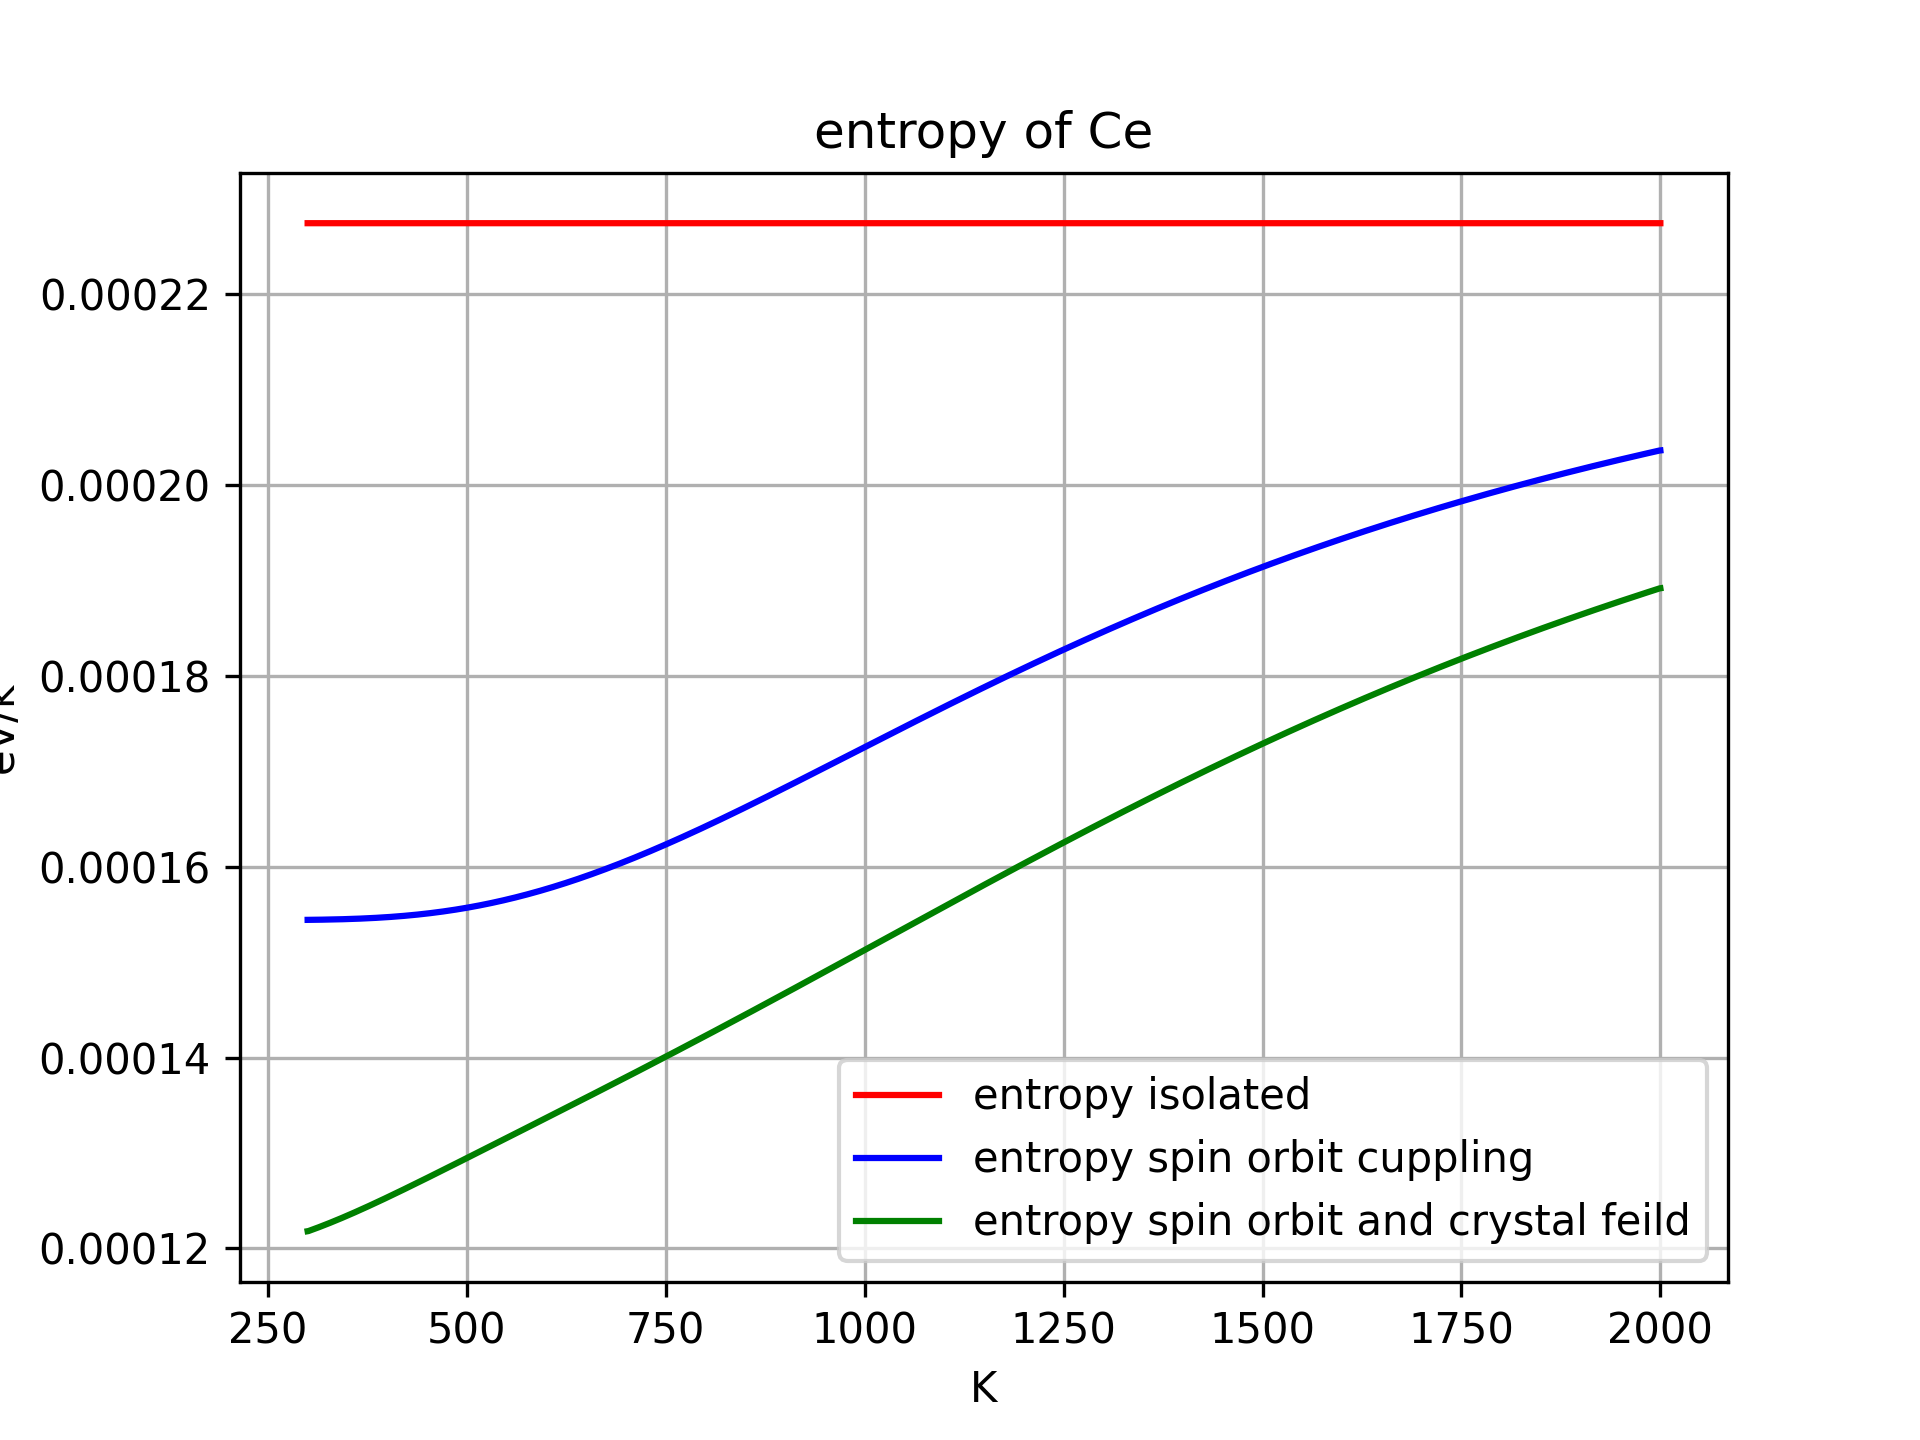
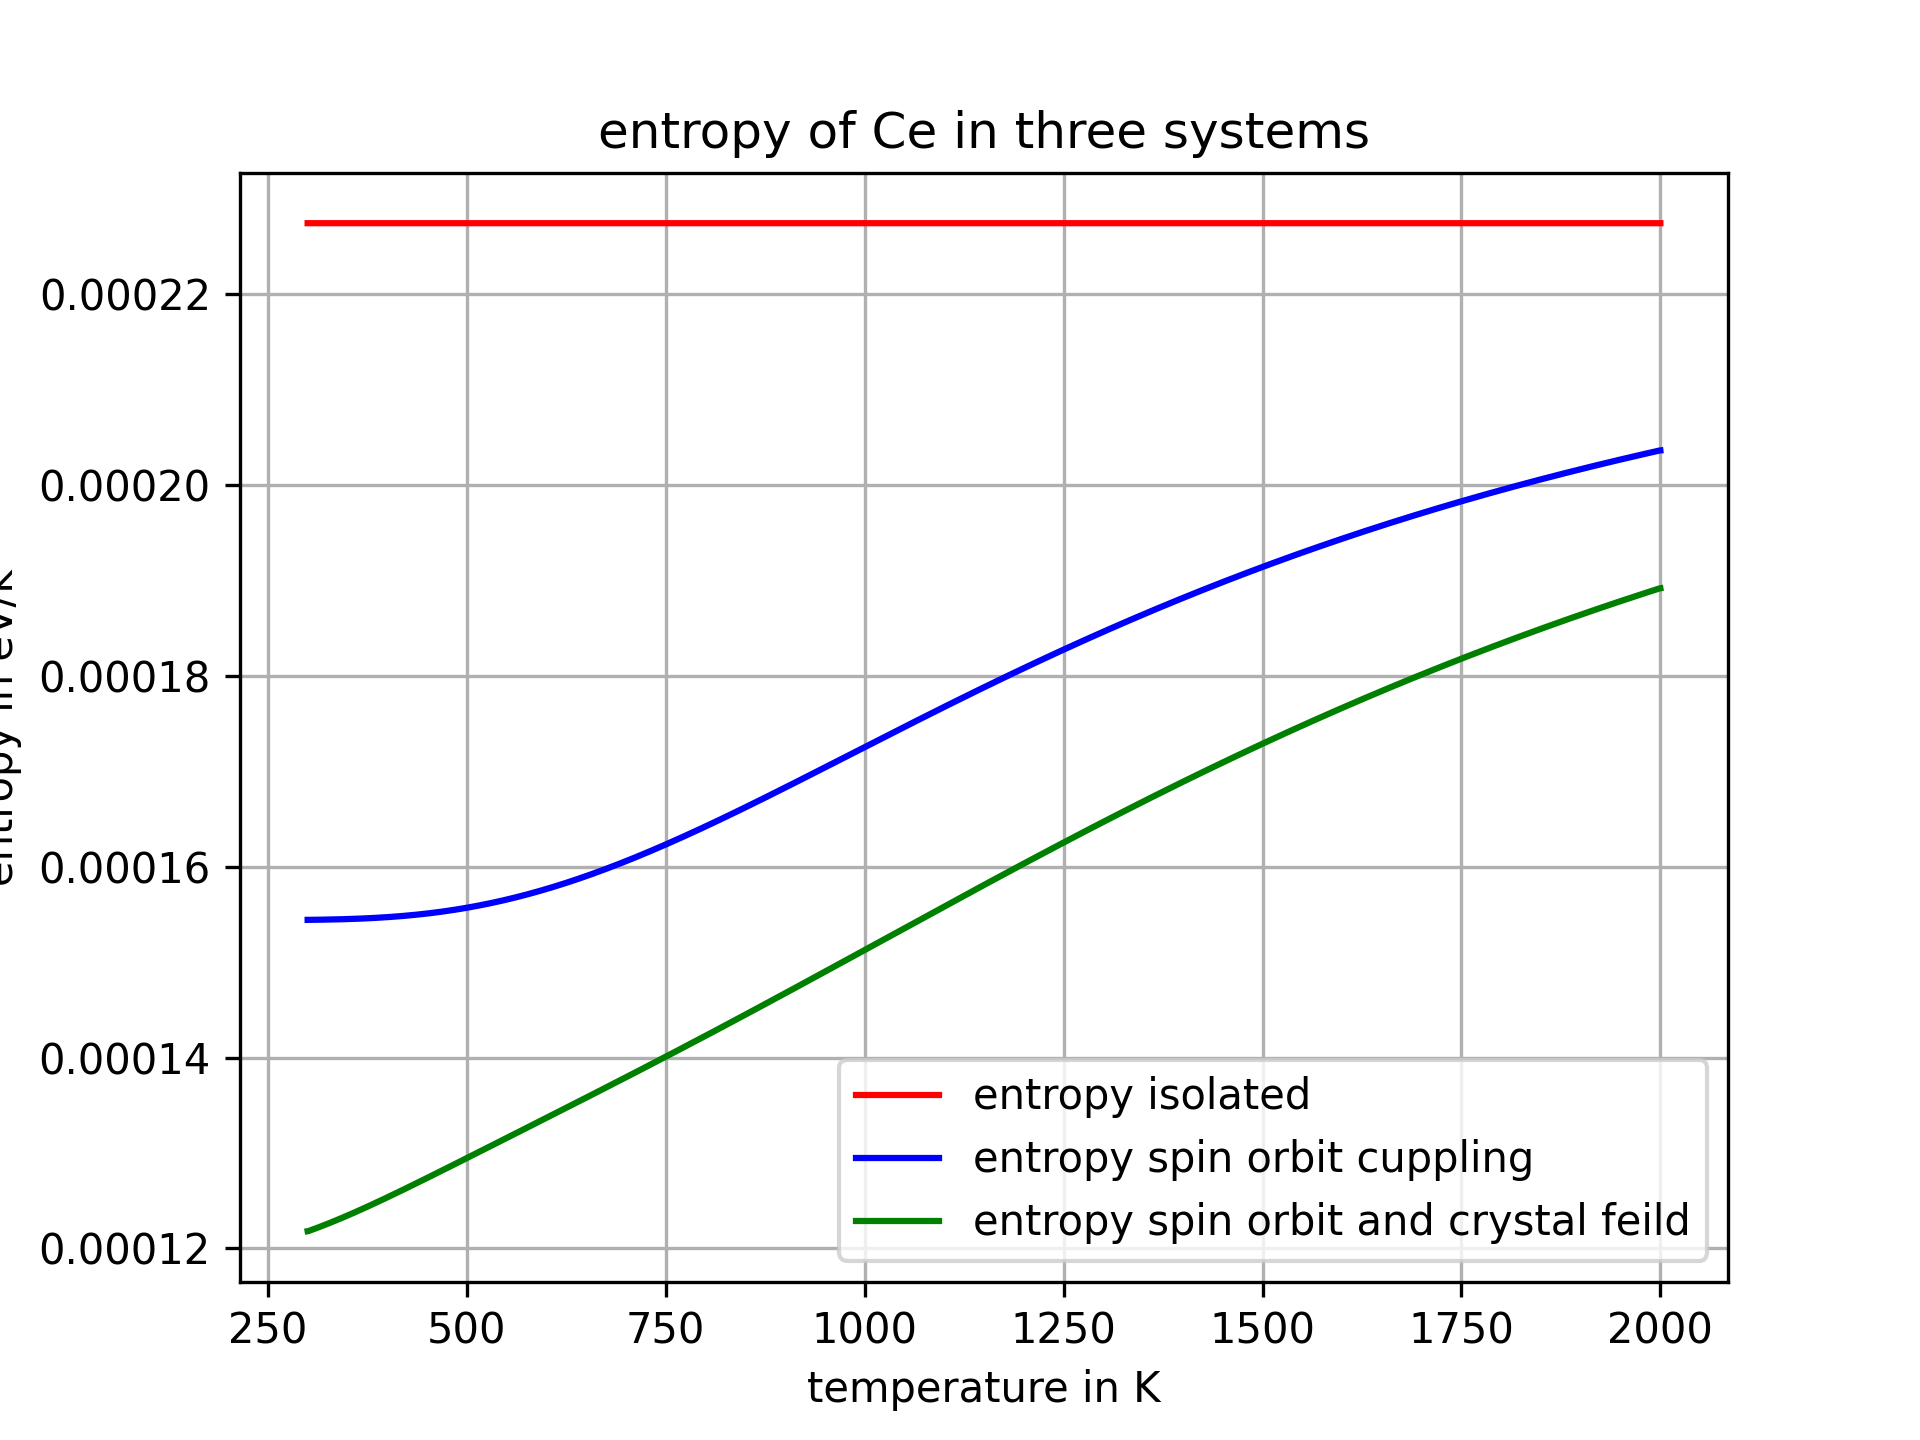
Add files via upload

Changed region(s): [[0.3125, 0.0625, 0.7188, 0.125], [0.4062, 0.9375, 0.5938, 0.9688], [0.0, 0.4688, 0.0312, 0.5312]]

diff --git a/homework_4_2/ce_thermo.py b/homework_4_2/ce_thermo.py
@@ -1,12 +1,12 @@
 import numpy as np
 import matplotlib.pyplot as plt
-import pandas as ps
+import pandas as pd
 from scipy.constants import k, eV
 
 # Constants
 k_B = k / eV  # Boltzmann constant in eV/K
 T = np.linspace(300, 2000, 1700)
-beta = 1/(k_B * T)
+Beta = 1/(k_B * T)
 
 #Ce3+ 
 #isolated gives
@@ -23,37 +23,49 @@ E_soc = np.array([0,.28]) #eV difference between Low and high
 g_cfs = np.array([4,2,2,4,2])
 E_cfs = np.array([0, .12, .35, .41, .42])
 
+# function to find and store values of Z
+def partition(g, E, T):
+    Z = []
+    for dt in T:
+        Beta = 1/(k_B*dt)
+        dz =  np.sum(g * np.exp(-Beta* E)) 
+        Z.append(dz)
+    return np.array(Z)
 
-# isolated system calulation
-def isolated_system(g, E, T, beta):
-    Z =  np.sum(g * np.exp(-np.outer(beta, E)), axis=1) 
-    U = -np.gradient(np.log(Z), beta) #interal energy
-    F = -k_B * T * np.log(Z) #free energy
-    S = -np.gradient(F,T) #entropy
-    return Z, U, F, S
+# function to find internal energy
+def internal_energy(Z, T):
+    U = []
+    Beta = 1/(k_B*T)
+    U = -np.gradient(np.log(Z), Beta) 
+    return U
 
-#SOC
-def SOC_system(g, E, T, beta):
-    Z = np.sum(g * np.exp(-np.outer(beta, E)), axis=1)
-    U = -np.gradient(np.log(Z), beta) 
+#function to find free energy
+def free_energy(Z, T):
     F = -k_B * T * np.log(Z)
-    S = -np.gradient(F,T)
-    return Z, U, F, S
+    return F
 
-# CFS & SOC
-def CFS_system(g, E, T, beta):
-    Z = np.sum(g * np.exp(-np.outer(beta, E)), axis=1) 
-    U = -np.gradient(np.log(Z), beta) 
-    F = -k_B * T * np.log(Z)
-    S = -np.gradient(F,T)
-    return Z, U, F, S
+# function to find entropy
+def entropy(F, T):
+    S = -np.gradient(F, T)
+    return S
 
-#unpack each function and their values (I only needed one function)
-Z_iso, U_iso, F_iso, S_iso = isolated_system(g_iso, E_iso, T, beta)
-Z_soc, U_soc, F_soc, S_soc = SOC_system(g_soc, E_soc, T, beta)
-Z_cfs, U_cfs, F_cfs, S_cfs = CFS_system(g_cfs, E_cfs, T, beta)
+# storing all the data points fround from the fucntions in different systems for CSV and graph
+Z_iso = partition(g_iso, E_iso, T)
+U_iso = internal_energy(Z_iso, T)
+F_iso = free_energy(Z_iso, T)
+S_iso = entropy(F_iso, T)
 
-#plot interal vs free energy of each system
+Z_soc = partition(g_soc, E_soc, T)
+U_soc = internal_energy(Z_soc, T)
+F_soc = free_energy(Z_soc, T)
+S_soc = entropy(F_soc, T)
+
+Z_cfs = partition(g_cfs, E_cfs, T)
+U_cfs = internal_energy(Z_cfs, T)
+F_cfs = free_energy(Z_cfs, T)
+S_cfs = entropy(F_cfs, T)
+
+#plot interal vs free energy of each system not meaningful that is why they are not saved graph just wanted to see how they reacted
 plt.plot(T, U_iso, label = 'internal energy', color = 'blue', linestyle = '--')
 plt.plot(T, F_iso, label = 'free energy', color = 'red', linestyle = '--')
 plt.xlabel('K')
@@ -85,36 +97,36 @@ plt.show()
 plt.plot(T, S_iso, label = 'entropy isolated', color = 'red')
 plt.plot(T, S_soc, label = 'entropy spin orbit cuppling', color = 'blue')
 plt.plot(T, S_cfs, label = 'entropy spin orbit and crystal feild', color = 'green')
-plt.xlabel('K')
-plt.ylabel('eV/k')
-plt.title('entropy of Ce')
+plt.xlabel('temperature in K')
+plt.ylabel('entropy in eV/k')
+plt.title('entropy of Ce in three systems')
 plt.grid(True)
 plt.legend()
-#plt.savefig('C:\\Users\\rcoyl\\OneDrive\\Documents\\git_hub_wexler\\chem-4050-5050\\homework_4_2\\entropy.png', dpi=300)
+plt.savefig('C:\\Users\\rcoyl\\OneDrive\\Documents\\git_hub_wexler\\chem-4050-5050\\homework_4_2\\entropy.png', dpi=300)
 plt.show()
 
 #plot comparision of interal energy between each system
 plt.plot(T, U_iso, label = 'interal energy isolated', color = 'red')
 plt.plot(T, U_soc, label = 'interal energy spin orbit cuppling', color = 'blue')
 plt.plot(T, U_cfs, label = 'interal energy spin orbit and crystal feild', color = 'green')
-plt.xlabel('K')
-plt.ylabel('eV')
-plt.title('interal energy of Ce')
+plt.xlabel('temperature in K')
+plt.ylabel('energy in eV')
+plt.title('interal energy of Ce in three systems')
 plt.grid(True)
 plt.legend()
-#plt.savefig('C:\\Users\\rcoyl\\OneDrive\\Documents\\git_hub_wexler\\chem-4050-5050\\homework_4_2\\internal_energy.png', dpi=300)
+plt.savefig('C:\\Users\\rcoyl\\OneDrive\\Documents\\git_hub_wexler\\chem-4050-5050\\homework_4_2\\internal_energy.png', dpi=300)
 plt.show()
 
 #plot free energy comparision between each system
 plt.plot(T, F_iso, label = 'free energy isolated', color = 'red')
 plt.plot(T, F_soc, label = 'free energy spin orbit cuppling', color = 'blue')
 plt.plot(T, F_cfs, label = 'free energy spin orbit and crystal feild', color = 'green')
-plt.xlabel('K')
-plt.ylabel('eV')
-plt.title('free energy of Ce')
+plt.xlabel('Temperature in K')
+plt.ylabel('energy in eV')
+plt.title('free energy of Ce in three systems')
 plt.grid(True)
 plt.legend()
-#plt.savefig('C:\\Users\\rcoyl\\OneDrive\\Documents\\git_hub_wexler\\chem-4050-5050\\homework_4_2\\free_energy.png', dpi=300)
+plt.savefig('C:\\Users\\rcoyl\\OneDrive\\Documents\\git_hub_wexler\\chem-4050-5050\\homework_4_2\\free_energy.png', dpi=300)
 plt.show()
 
 data = {
@@ -130,5 +142,5 @@ data = {
     "S_cfs (eV/K)": S_cfs
 }
 
-df = ps.DataFrame(data)
+df = pd.DataFrame(data)
 df.to_csv('C:\\Users\\rcoyl\\OneDrive\\Documents\\git_hub_wexler\\chem-4050-5050\\homework_4_2\\Ce_thermo.csv', index=False)
